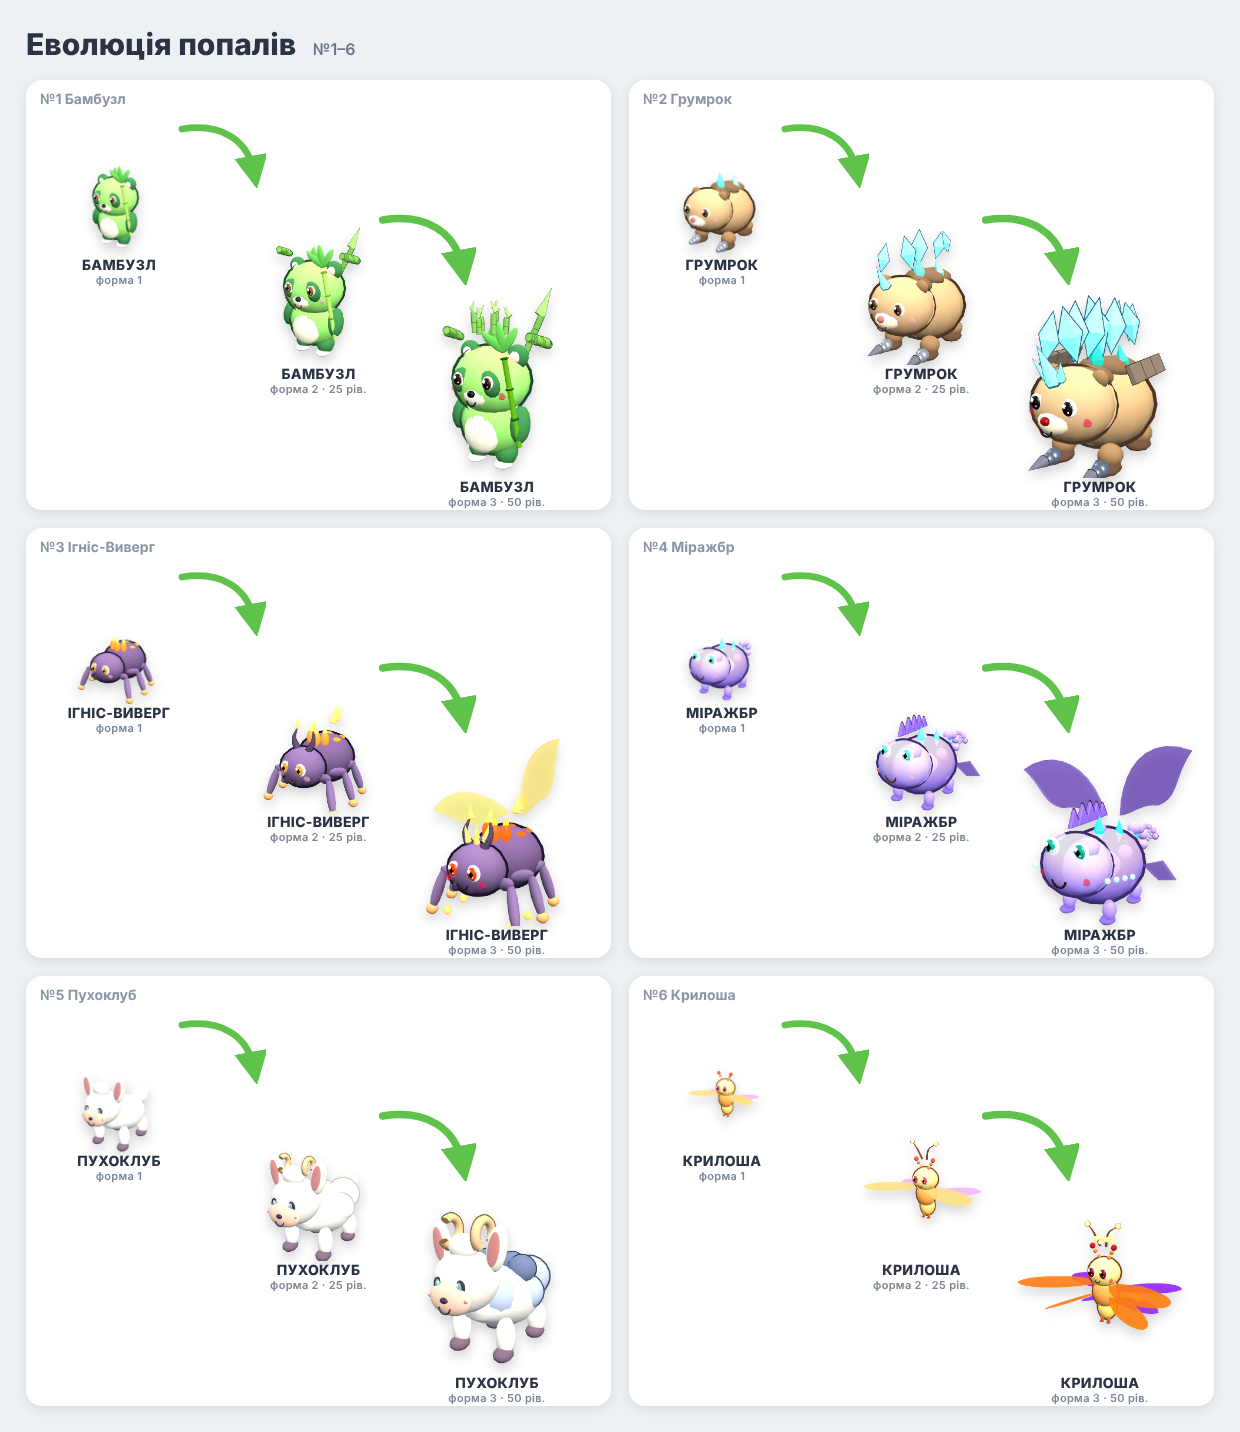
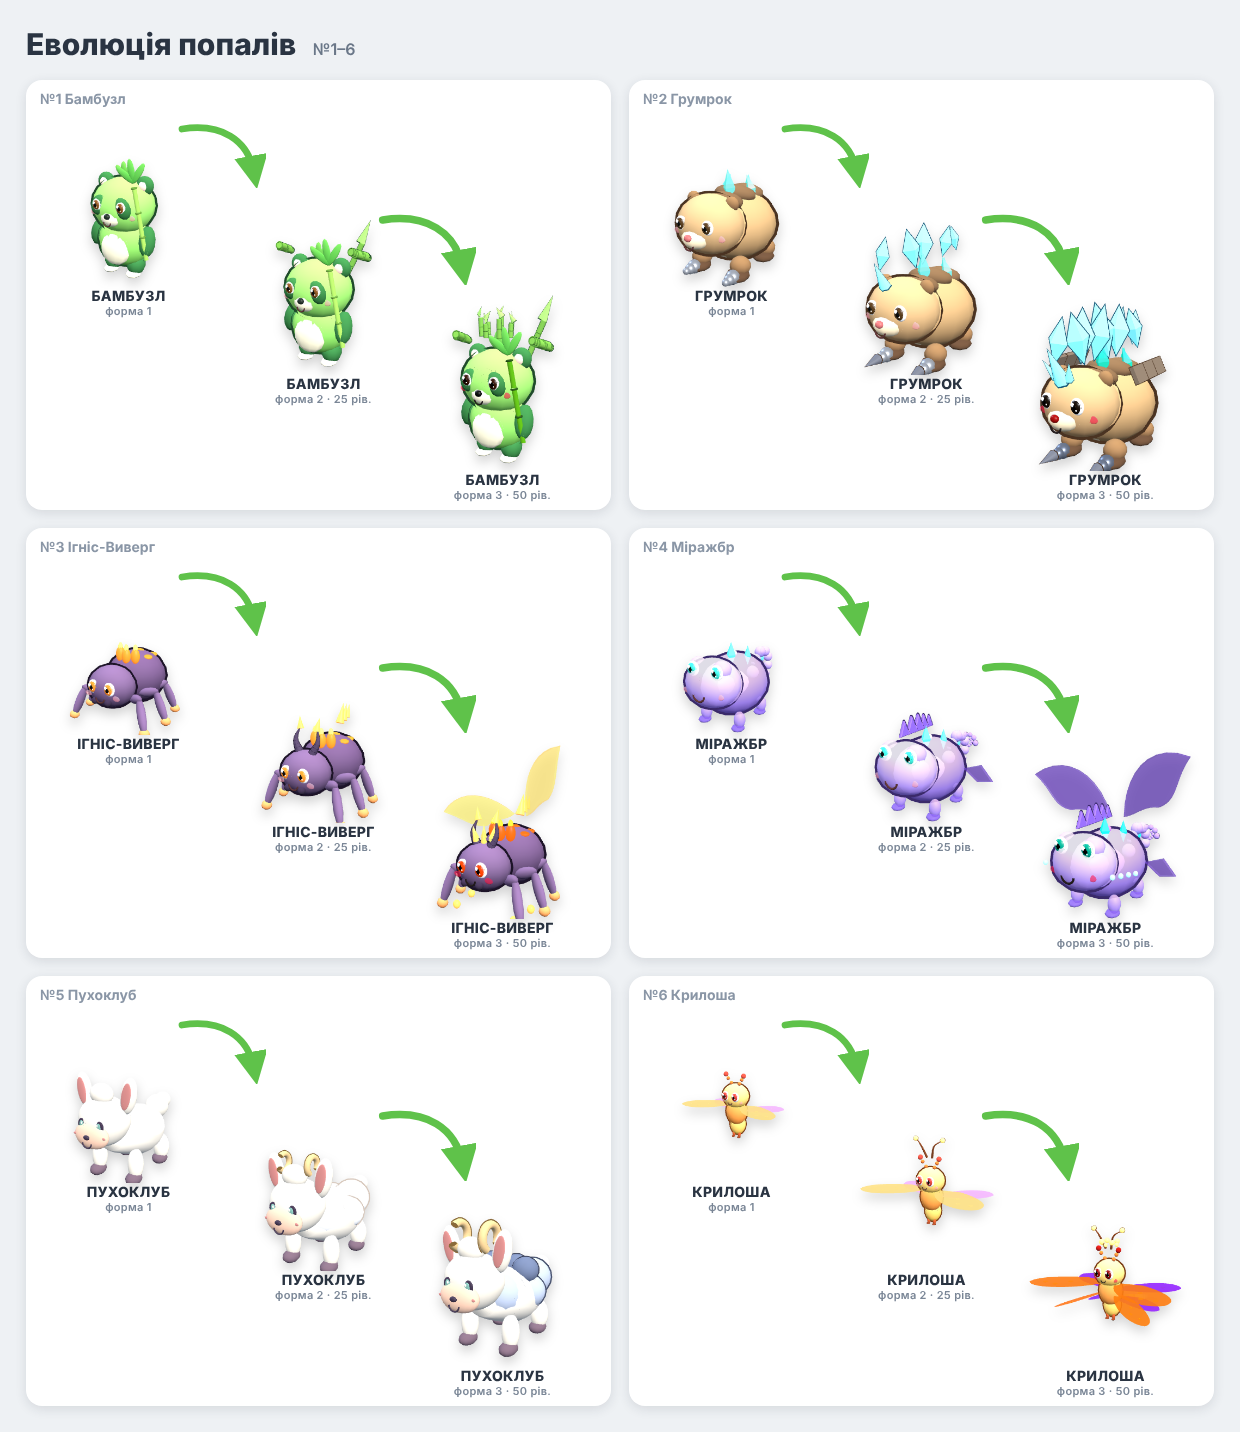
Evolution: forms grow only slightly (+6% / +12% instead of +15% / +30%)
Claude-Session: https://claude.ai/code/session_01PguobgJdSBjp46jV6zHRrh

diff --git a/site/src/modules/evolution.js b/site/src/modules/evolution.js
@@ -2,7 +2,7 @@
    • Кристал еволюції (cr2) — форма 2 з 25 рівня; Кристал вознесіння (cr3, рідкісніший, із сильнішого боса) — форма 3 з 50 рівня.
      Кристали не мають ваги в рюкзаку (займають лише клітинку). Поки босів немає, гравець ID 0001 отримує по 20 кожного для тестів.
    • Колба поліпшень (B_flask, world-007.js): підійдіть і натисніть «Дія» → оберіть попала → кристал → анімація перетворення.
-   • Нова форма: більший розмір, сяйво стихії, кристали-гребінь (форма 2), німб і крила (форма 3); сильніші атака, захист і HP (pal-growth.js).
+   • Нова форма: трохи більший розмір (+6% / +12%), сяйво стихії й нові частини тіла кожного виду (pal-forms.js); сильніші атака, захист і HP (pal-growth.js).
      Рівень і атаки лишаються. Дикі попали на локаціях 1–2 завжди у формі 1. */
 (function(){try{
 if(typeof pals=='undefined'||typeof THREE=='undefined')return;
@@ -35,7 +35,7 @@ const gift=setInterval(()=>{if(inv._crg){clearInterval(gift);return}if(window.my
 /* ---------- вигляд форм ---------- */
 const ECOL={gr:0x5fdc7a,ea:0xd9a25a,fi:0xff7a2a,da:0xa77ae6,ne:0xffb8d8,ai:0xbfe8ff,wa:0x3ad0ff};
 const elC=ty=>{const e=(T[ty]&&T[ty].e)||['ne'];return ty==6?0x9fe8ff:ty==7?0xffe14a:ty==1?0x7fe3f5:ECOL[e[0]]||0xffffff};
-const FS=[1,1,1.15,1.3];
+const FS=[1,1,1.06,1.12];/* форма лише трохи більша */
 const glowTex=(()=>{const c=document.createElement('canvas');c.width=c.height=64;const x=c.getContext('2d'),g=x.createRadialGradient(32,32,0,32,32,32);
  g.addColorStop(0,'rgba(255,255,255,1)');g.addColorStop(.4,'rgba(255,255,255,.55)');g.addColorStop(1,'rgba(255,255,255,0)');x.fillStyle=g;x.fillRect(0,0,64,64);return new THREE.CanvasTexture(c)})();
 const add_=(o,c)=>new THREE.MeshBasicMaterial({color:c,transparent:true,opacity:o,depthWrite:false,blending:THREE.AdditiveBlending,side:THREE.DoubleSide});
